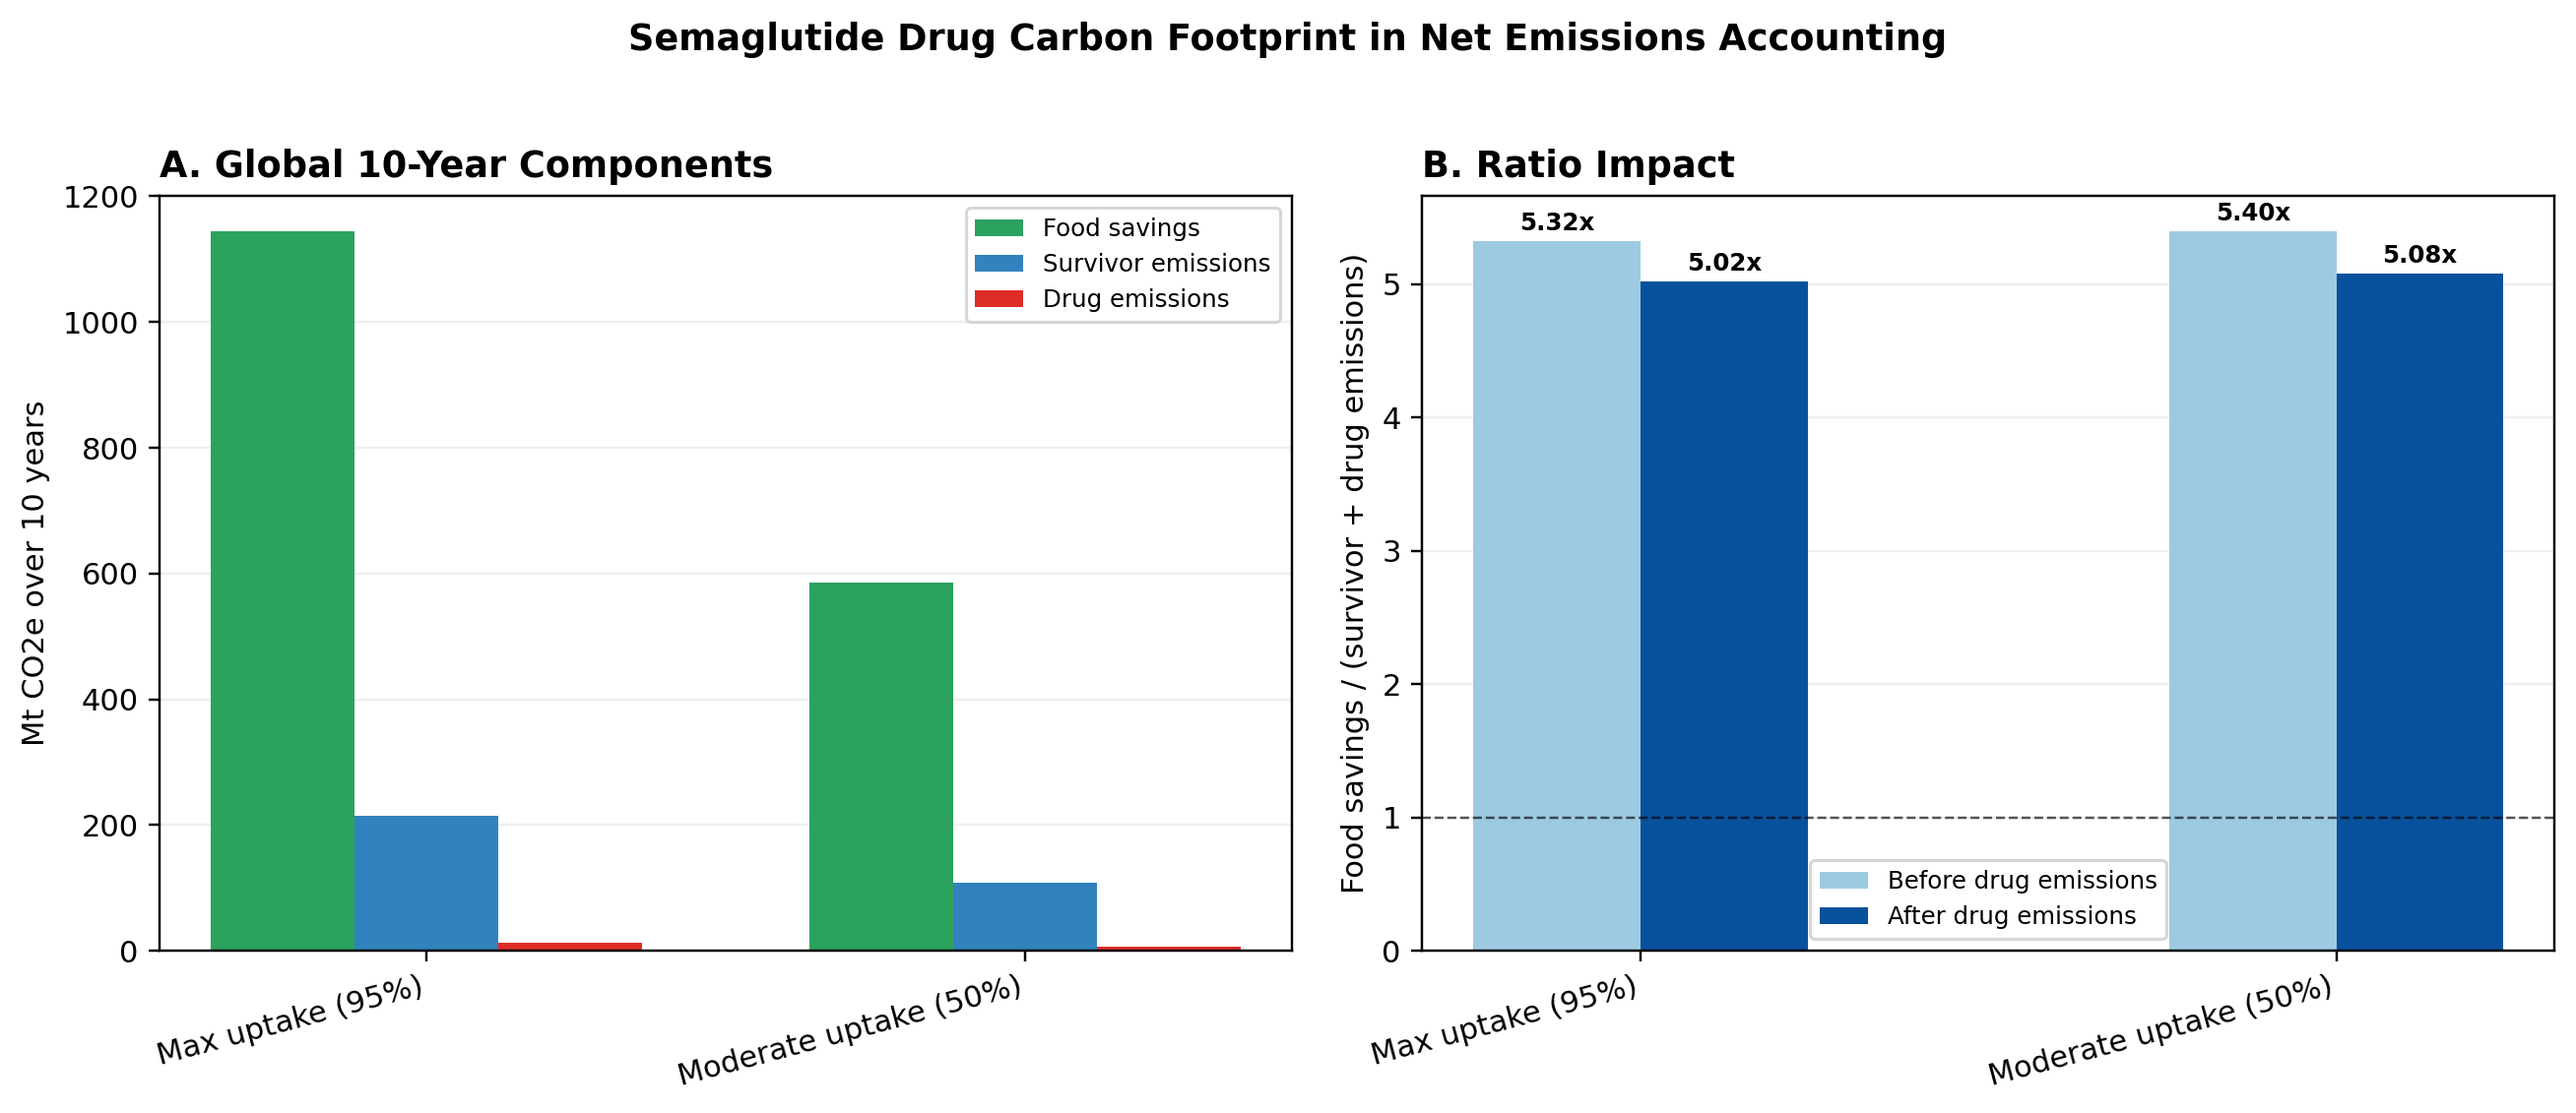
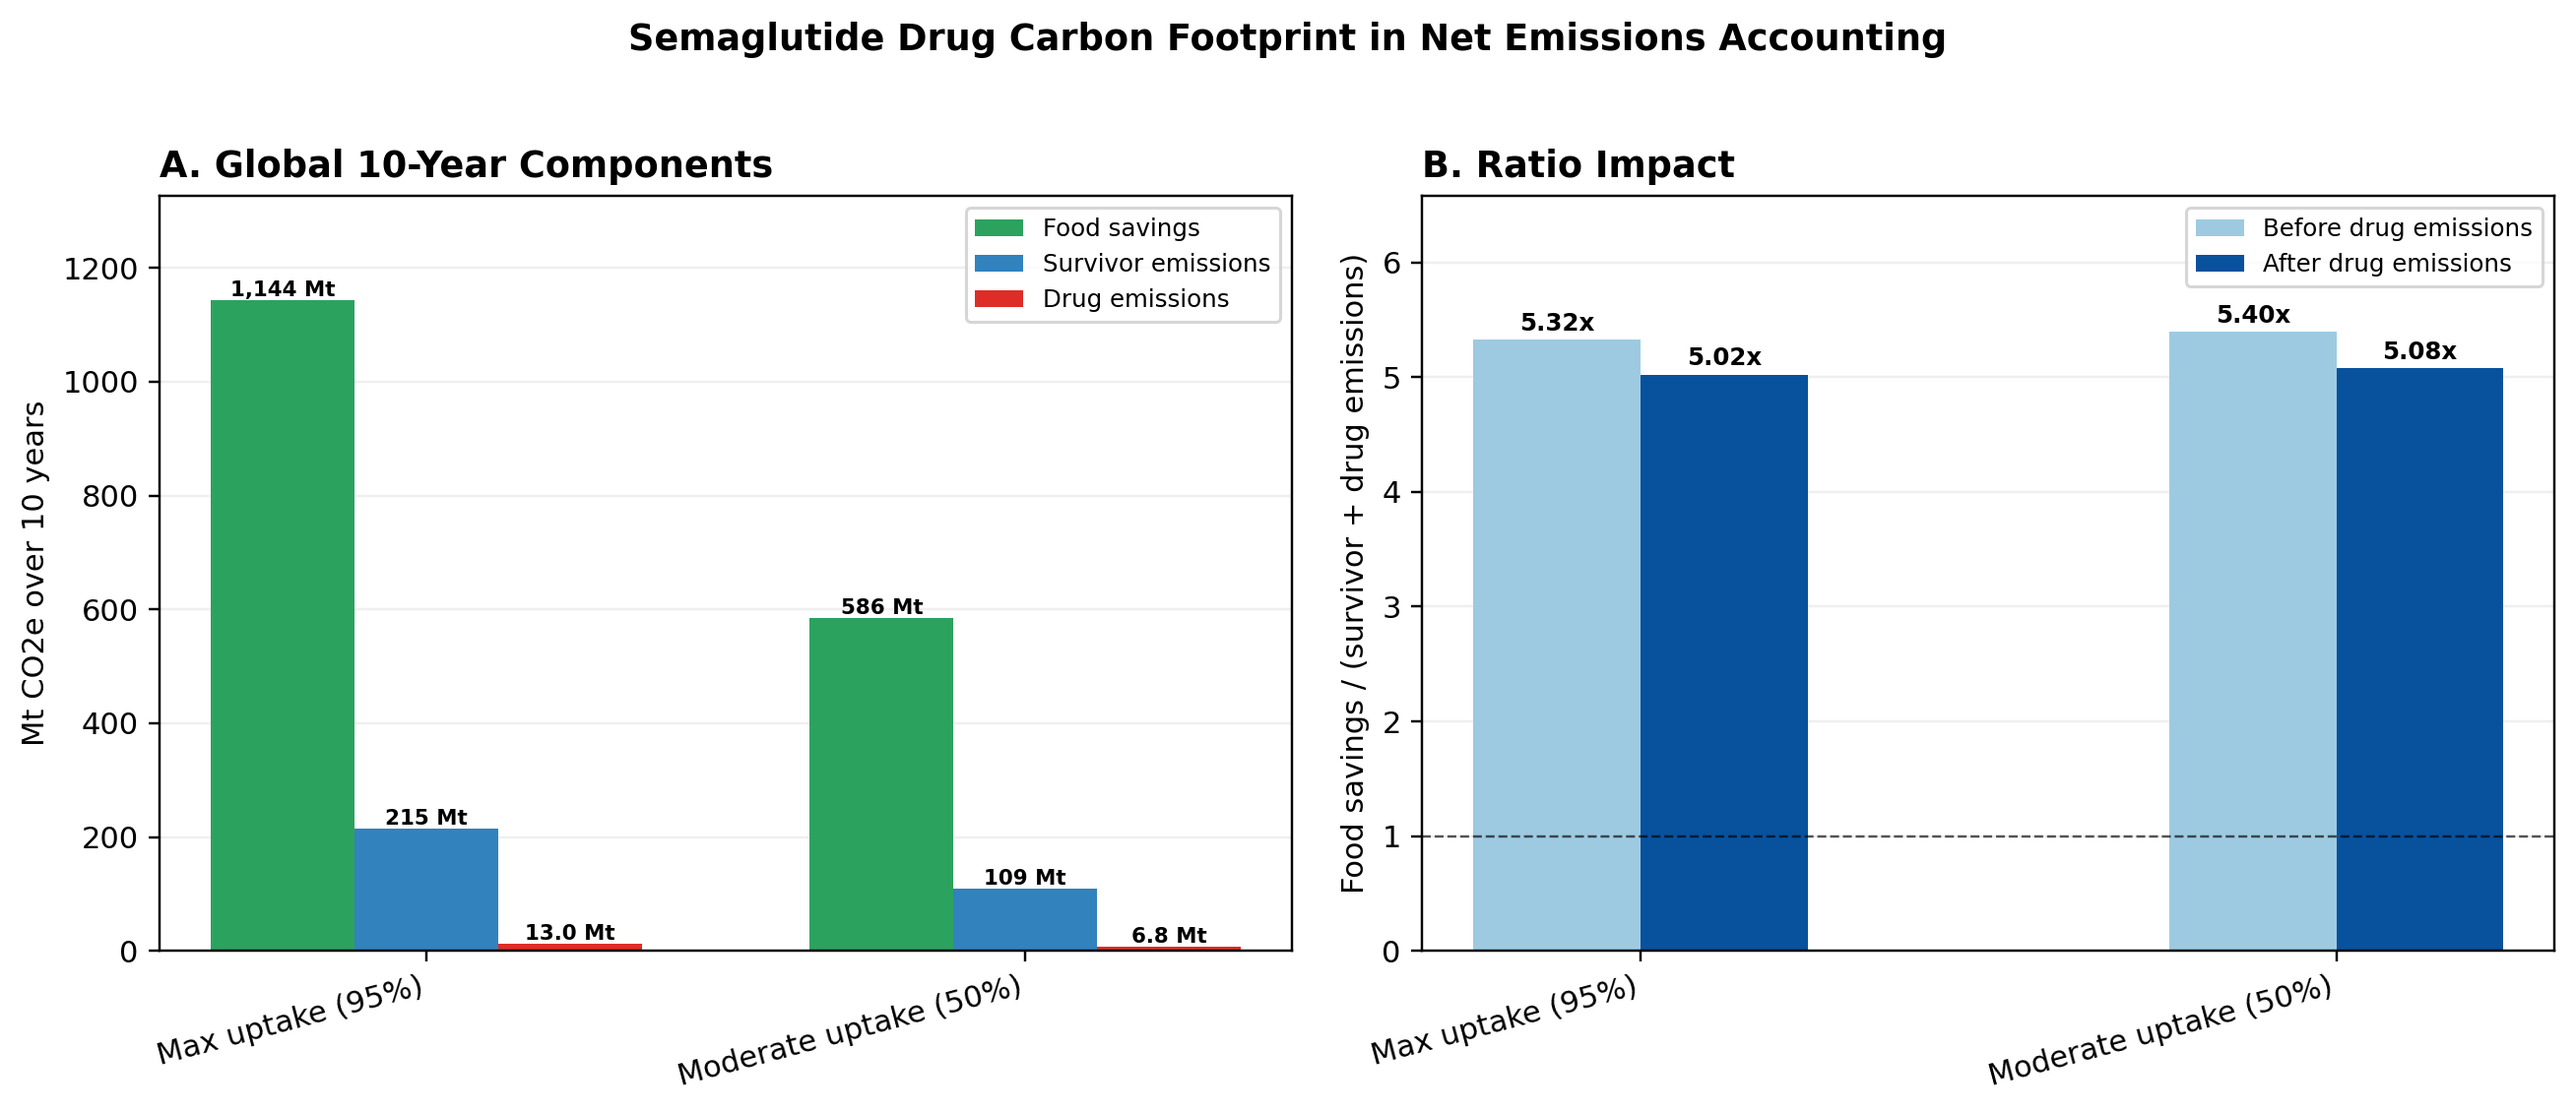
Update label and legend

diff --git a/drug_effect/analysis.py b/drug_effect/analysis.py
@@ -189,21 +189,21 @@ def plot_summary(summary: pd.DataFrame) -> str:
 
     fig, axes = plt.subplots(1, 2, figsize=(12, 5))
 
-    axes[0].bar(
+    food_bars = axes[0].bar(
         x - width,
         summary["total_food_savings_10yr_t"] / 1e6,
         width,
         label="Food savings",
         color="#2ca25f",
     )
-    axes[0].bar(
+    survivor_bars = axes[0].bar(
         x,
         summary["survivor_emissions_10yr_t"] / 1e6,
         width,
         label="Survivor emissions",
         color="#3182bd",
     )
-    axes[0].bar(
+    drug_bars = axes[0].bar(
         x + width,
         summary["drug_emissions_10yr_t"] / 1e6,
         width,
@@ -217,6 +217,37 @@ def plot_summary(summary: pd.DataFrame) -> str:
     axes[0].legend(fontsize=8)
     axes[0].grid(axis="y", alpha=0.2)
     axes[0].set_axisbelow(True)
+    axes[0].set_ylim(
+        0,
+        (summary["total_food_savings_10yr_t"] / 1e6).max() * 1.16,
+    )
+
+    def label_component_bars(bars, values, small_decimals: bool = False) -> None:
+        for bar, value in zip(bars, values):
+            label = f"{value:,.1f} Mt" if small_decimals else f"{value:,.0f} Mt"
+            axes[0].text(
+                bar.get_x() + bar.get_width() / 2,
+                bar.get_height(),
+                label,
+                ha="center",
+                va="bottom",
+                fontsize=7,
+                fontweight="bold",
+            )
+
+    label_component_bars(
+        food_bars,
+        summary["total_food_savings_10yr_t"] / 1e6,
+    )
+    label_component_bars(
+        survivor_bars,
+        summary["survivor_emissions_10yr_t"] / 1e6,
+    )
+    label_component_bars(
+        drug_bars,
+        summary["drug_emissions_10yr_t"] / 1e6,
+        small_decimals=True,
+    )
 
     axes[1].bar(
         x,
@@ -237,7 +268,11 @@ def plot_summary(summary: pd.DataFrame) -> str:
     axes[1].set_xticklabels(labels, rotation=15, ha="right")
     axes[1].set_ylabel("Food savings / (survivor + drug emissions)")
     axes[1].set_title("B. Ratio Impact", loc="left", fontweight="bold")
-    axes[1].legend(fontsize=8)
+    axes[1].set_ylim(
+        0,
+        max(summary["ratio_without_drug"].max(), summary["ratio_with_drug"].max()) * 1.22,
+    )
+    axes[1].legend(fontsize=8, loc="upper right")
     axes[1].grid(axis="y", alpha=0.2)
     axes[1].set_axisbelow(True)
 
